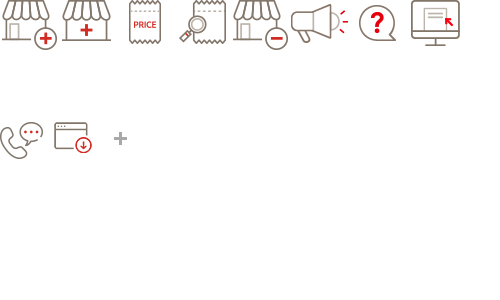
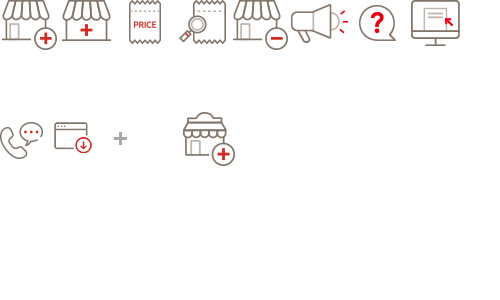
스토어 추가

Changed region(s): [[0.36, 0.36, 0.48, 0.57]]

diff --git a/src/assets/css/common.css b/src/assets/css/common.css
@@ -10,7 +10,7 @@
 #wrapper {position:relative; width:100%; background:#ffffff; z-index: 100;}
 #header {position: fixed; top:0; width:100%; background:#ffffff; border-bottom:1px solid #dedede; z-index:1100}
 .top_header {position: relative; width:1200px; height:70px; margin:0 auto;}
-.top_header .logo {position:absolute; top:21px; left:0; width:250px; height:30px; background:url('../images/img_logo.png') no-repeat 0 0;}
+.top_header .logo {position:absolute; top:21px; left:0; width:250px; height:30px; background:url('../images/bi.png') no-repeat 0 0;}
 .top_header .logo > a {display:block; width:250px; height:30px; font-size:0; line-height:0; text-indent: -999em;}
 
 .gnb {position: absolute; top:0; width:100%; height:42px; margin-top:70px; text-align:center; background: #fff; border-top:1px solid #dedede; border-bottom:1px solid #dedede; z-index:2000;}
@@ -88,7 +88,7 @@
 .icon_main.m02 {background-position:-58px 0;}
 .icon_main.m03 {background-position:-116px 0;}
 .icon_main.m04 {background-position:-174px 0;}
-.icon_main.m05 {background-position:-232px 0;}
+.icon_main.m05 {background-position:-179px -116px;}
 .icon_main.m06 {background-position:-290px 0;}
 .icon_main.m07 {background-position:-348px 0;}
 .icon_main.m08 {background-position:-406px 0;}
